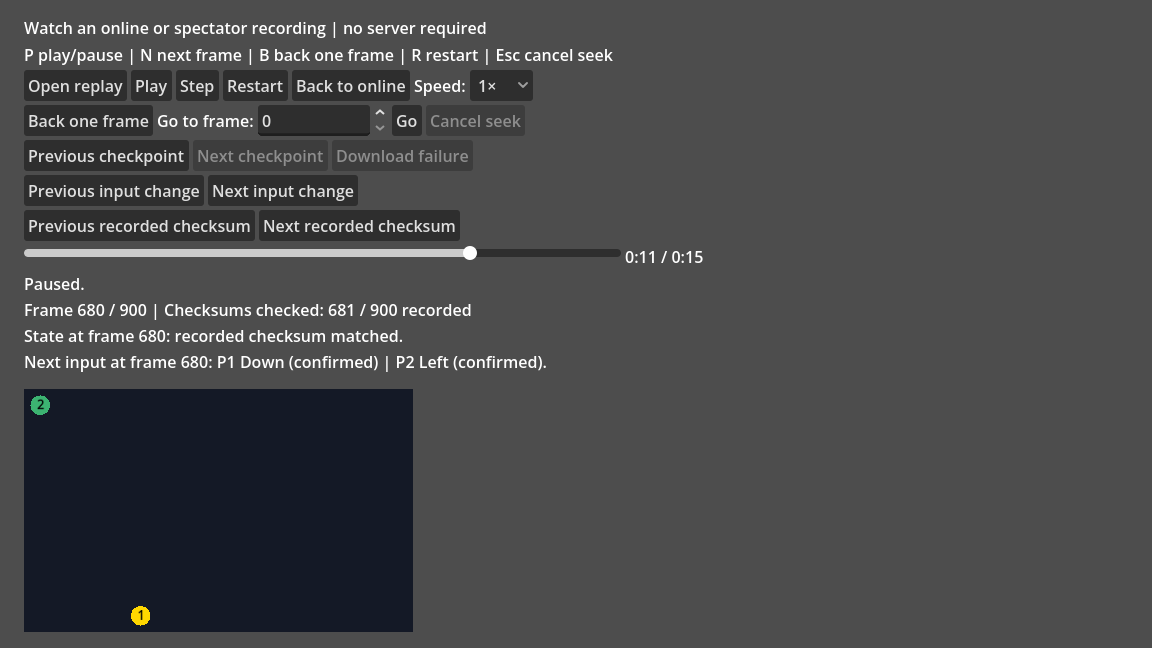
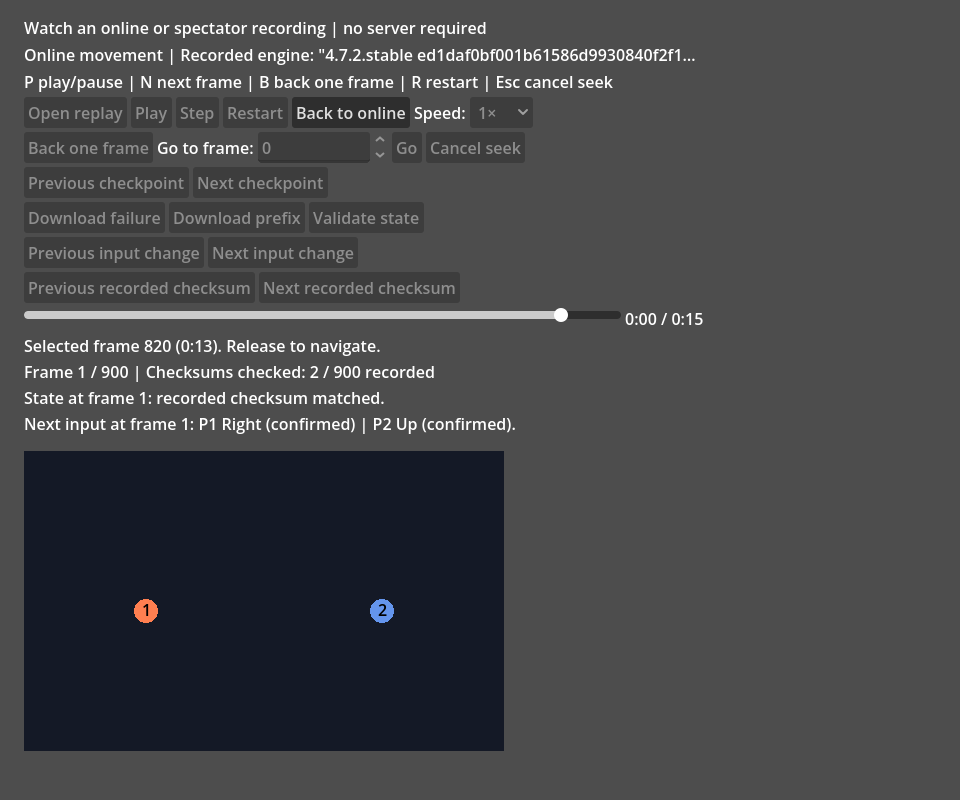
Fix restarts and improve playback controls (#303)
DISCLOSURE: LLM-GENERATED TEXT

**Why:** Reusing the integration loop retains stale game state, and
playback controls need clearer pointer feedback.

**What:**

- Restart the complete integration match and retire old handles.
- Preview the selected replay frame and time while dragging.
- Save viewed spectator recordings through a guarded pointer button.
- Document controls with updated screenshots and deterministic
regression coverage.

Replay screenshots:
[before](https://github.com/Ambiguous-Interactive/fortress-rollback-godot/blob/9d48176332ed5ca1ad98889f951836273b58a689/docs/images/replay-timeline.png),
[after](https://github.com/Ambiguous-Interactive/fortress-rollback-godot/blob/09826aa196b83c9c676fd9c10b261d634340f255/docs/images/replay-timeline.png).

Spectator screenshots:
[before](https://github.com/Ambiguous-Interactive/fortress-rollback-godot/blob/9d48176332ed5ca1ad98889f951836273b58a689/docs/images/spectator-example.png),
[after](https://github.com/Ambiguous-Interactive/fortress-rollback-godot/blob/09826aa196b83c9c676fd9c10b261d634340f255/docs/images/spectator-save-controls.png).

Advances #40, #45 and #47. Their broader acceptance remains open.

Changed region(s): [[0.0, 0.0309, 0.7188, 0.9877], [0.125, 0.7407, 0.1875, 0.7716]]

diff --git a/scripts/reference/ownership_probes.py b/scripts/reference/ownership_probes.py
@@ -179,7 +179,7 @@ EXPECTED['res://tests/unit/test_integration_controls.gd'] = {'live_controls', 'r
 EXPECTED['res://tests/unit/test_integration_effect_reentry.gd'] = {'effect_reentry', 'effect_cancellation'}
 EXPECTED['res://tests/unit/test_integration_demo.gd'] = {'delayed_matches', 'reset_and_validation', 'replays_corrected_match', 'restart_lifetimes'}
 EXPECTED['res://tests/unit/test_replay_prefix.gd'] = {'captured_prefix_evidence', 'prefix_evidence_boundaries', 'incomplete_prefix_digests', 'incomplete_prefix_storage'}
-EXPECTED['res://tests/unit/test_spectator_demo_recording.gd'] = {'prefix_capture', 'clean_end_capture', 'capture_guards'}
+EXPECTED['res://tests/unit/test_spectator_demo_recording.gd'] = {'prefix_capture', 'clean_end_capture', 'capture_guards', 'save_pointer_control'}
 for _suite in ['host', 'relay']:
     EXPECTED[f'res://tests/unit/test_signalfish_spectator_{_suite}.gd'].add('sdk_numbers')
 EXPECTED['res://tests/unit/test_signalfish_fallback_failure.gd'] = {
@@ -199,6 +199,7 @@ EXPECTED['res://tests/unit/test_replay_viewer_prefix.gd'] = {'selected_prefix', 
 EXPECTED['res://tests/unit/test_peer_example_ownership.gd'] = {
     'replacement', 'rejected_configuration', 'completion_controls', 'manual_controls', 'callback_controls', 'input_preflight'}
 EXPECTED['res://tests/unit/test_example_scene_exit.gd'] = {'retained_handles', 'active_batches', 'active_callbacks', 'expert_gap_recovery'}
+EXPECTED['res://tests/unit/test_integration_restart.gd'] = {'restart_lifetime', 'restart_rejections', 'restart_callbacks'}
 EXPECTED_COUNT = sum(len(cases) for cases in EXPECTED.values())
 FILES = [
     'tests/runner/scenario_runner.gd', 'tests/runner/test_context.gd', 'tests/runner/run_tests.gd',
@@ -263,7 +264,7 @@ FILES += ['tests/unit/test_driver_lifecycle_parity.gd']
 FILES += ['tests/unit/test_driver_drop_parity.gd']
 FILES += ['tests/unit/test_peer_notifications.gd']
 FILES += ['tests/unit/test_replay_configuration.gd']
-FILES += ['tests/unit/test_integration_controls.gd']
+FILES += ['tests/unit/test_integration_controls.gd', 'tests/unit/test_integration_restart.gd']
 FILES += ['tests/unit/test_peer_expert.gd', 'tests/unit/test_snapshot_history.gd', 'tests/unit/test_integration_demo.gd', 'tests/unit/test_integration_effect_reentry.gd']
 FILES += ['addons/fortress_rollback/transport/signalfish_adapter.gd', 'addons/fortress_rollback/transport/signalfish_membership.gd',
           'addons/fortress_rollback/transport/signalfish_relay.gd', 'addons/fortress_rollback/transport/signalfish_relay_envelope.gd',
@@ -323,6 +324,7 @@ const ReplayInputNavigation = preload("res://tests/unit/test_replay_input_naviga
 const ReplayFinalCoverage = preload("res://tests/unit/test_replay_final_coverage.gd")
 const IntegrationControls = preload("res://tests/unit/test_integration_controls.gd")
 const IntegrationDemo = preload("res://tests/unit/test_integration_demo.gd")
+const IntegrationRestart = preload("res://tests/unit/test_integration_restart.gd")
 const IntegrationEffectReentry = preload("res://tests/unit/test_integration_effect_reentry.gd")
 const SnapshotHistory = preload("res://tests/unit/test_snapshot_history.gd")
 const ReplayConfiguration = preload("res://tests/unit/test_replay_configuration.gd")
@@ -377,7 +379,7 @@ func _run_suites() -> void:
 \t\tReplayTerminalRecovery, ReplayTerminal, ReplayCheckpoints, SpectatorStream, CallbackSignatures, ScriptViewTypes,
 \t\tReplayDiagnostics, SpectatorDemo, SpectatorDemoRecording, SpectatorPolicy, SpectatorPublisher, ReplaySpeed, ReplayInputNavigation, ReplayViewerLifetime, ReplayViewerPrefix,
 		DriverRecovery, PeerRecovery, PeerReplayCapture, PeerNotifications, ReplayFinalCoverage, ReplayCoverage, SpectatorModel, FrameInputs, InputQueue,
-		ReplayExpert, ReplayDrop, ReplayConfiguration, PeerExpert, SnapshotHistory, IntegrationDemo, IntegrationEffectReentry, IntegrationControls, ReplayPrefix,
+		ReplayExpert, ReplayDrop, ReplayConfiguration, PeerExpert, SnapshotHistory, IntegrationDemo, IntegrationRestart, IntegrationEffectReentry, IntegrationControls, ReplayPrefix,
 		PeerChecksumRepair, SpectatorStatus, DropInventory, DropHistory, DropMultiSlot,
 		HistoryBackfill, DriverParity, DriverPeerParity, DriverDropParity, DropBackfill, DropCapacity, DropEviction, DropHistoryPressure, DropDonorFairness,
 		DropPlanFairness, DropReadyPressure, DropRemoteDonorPressure, DropLateAck, DropCommit,

diff --git a/.llm/retrospectives/2026-11-02-client-restarts-and-selection.md b/.llm/retrospectives/2026-11-02-client-restarts-and-selection.md
@@ -1,0 +1,40 @@
+# Retrospective: complete restarts and visible selection
+
+## Work under review
+
+Advance client integration (#40), replay inspection (#45) and local spectator
+controls (#47). Replace the integration loop's partial restart, preview timeline
+selection and expose the existing viewed-replay export through a pointer button.
+
+## Findings and actions
+
+| Finding | Evidence | Action |
+| --- | --- | --- |
+| Reconfiguring only the session leaves an advanced game, held sample and played-effect frontier attached to frame zero. | The original `examples/integration/loop.gd::start` reused these owners; the restart probe subsequently returned `CALLBACK_FAILED`. | Stage a complete replacement, retire the old session and support explicit fresh custom callbacks. |
+| A slider can move without telling users which exact frame they selected. | The original `examples/online/replay_scene.gd::_timeline_changed` skipped refresh during dragging. | Show prospective frame/time separately from the displayed state and checksum observations. |
+| Testing the real default export path can overwrite another process's recording. | The first spectator pointer fixture used the fixed `user://fortress-spectator.frrp` path. | Capture the existing export override in the unit test; run actual file receipt in a separate process with an owned data directory. |
+| A repeated successful save can pass on stale bytes and a prior notice. | The original `_save_from_button` accepted an isolated mutant that refused stopped-viewer exports. | Require exactly one new export invocation per accepted press; the same mutant now fails that assertion. |
+| Concurrent edits must disqualify a source-bound aggregate even when its selected assertions pass. | Focused replay/spectator records passed while native launchers reported `source_changed`. | Keep those records as diagnostic evidence and run final qualification only after the shared source freeze. |
+
+## Verification and routing
+
+Each change has a failing baseline control and passing focused cases on Godot
+4.3 and 4.7.2. Live viewport input exercises timeline drag/release and spectator
+saving; the native saved file reopens with its original canonical state.
+Final frozen native and CI evidence belongs in the session log and linked issues.
+
+Existing [rollback guidance](../skills/rollback-fundamentals/SKILL.md) already
+requires staged replacement and retirement of prior owners. Existing
+[infrastructure guidance](../skills/testing/references/infrastructure.md) already
+covers owned native file paths, live GUI input and coordinated source freezing.
+Extended the existing browser/UI observation guidance with per-action freshness,
+alongside its prior-import readiness rule. No separate skill or knowledge entry is needed.
+
+## Prune ledger and outcome
+
+Removed the shared-file unit fixture before delivery. Considered the existing
+playback-controls retrospective and source-image guidance; their contracts remain
+valid and neither is superseded. The three parent issues retain their complete
+upstream, platform and release acceptance requirements.
+
+Outcome: `findings-acted`.

diff --git a/PLAN.md b/PLAN.md
@@ -109,13 +109,15 @@ Internal readiness checks avoid owned sample copies; public retained-input reads
 They can also export owned finalized input rows for confirmed effects and spectator publication without recording.
 Replay failure evidence identifies the first failed game request and comparison domain.
 Normal replay inspection also exposes recorded provenance separately from checksum coverage.
+Timeline dragging previews its selected frame and time while state and checksum observations continue to name the displayed frame.
 The online replay viewer can inspect preceding or following control/status changes through bounded verified navigation.
 It can export original input history before the displayed frame, retaining existing checksum evidence without generating new validation.
 It also discovers preceding/following recorded checksum boundaries, including final states, independently of visited checkpoint caches.
 Spectator playback observations distinguish contiguous input waits, deliberate delay, final tails and committed termination.
 The local spectator example adjusts its viewing delay without rewinding playback or changing its pause and catch-up policy.
-Pointer controls share its keyboard pause, single-frame, bounded one-time catch-up, clean host ending and fresh match restart actions.
+Pointer controls share its keyboard pause, single-frame, bounded one-time catch-up, clean host ending, fresh match restart and viewed-replay save actions.
 Integration controllers validate ownership, retained input and time before staging input or advancing clocks, and pause live service while replay is open.
+Restarting the reusable integration loop stages a complete fresh game, session, driver and effects ledger before retiring its prior match.
 The local peer example prepares replacement sessions before retiring the old match and preserves active shared game operations during reset.
 Online room and match service also preserve callback, notification and manual ownership before committing clocks or replay finishing.
 Online setup guards SDK callbacks and fences cancellation before accepting a new match or transport.

diff --git a/docs/online-example.md b/docs/online-example.md
@@ -230,7 +230,8 @@ When a recording includes a validated final-state checksum, its ending is also
 retained within the checkpoint budget. **Next checkpoint** can return to that
 ending after backward inspection, even between five-second boundaries.
 These controls become available as playback builds its cache. They finish paused and cannot skip a playback failure.
-Drag the timeline to choose a recorded moment, then release to navigate and pause.
+Drag the timeline to preview an exact frame and recorded time, then release to navigate and pause.
+The selected destination appears above the current playback status; the game stays at its actual frame until release.
 Press **Download prefix** to save original inputs before the displayed frame as `fortress-replay-prefix-SOURCE-FRAME.frrp`.
 The source fingerprint distinguishes prefixes from different recordings.
 Native runs save under `user://`; browsers download the file. Reopening it reproduces that recorded prefix.
@@ -251,7 +252,7 @@ Enter a frame number and press **Go** for an exact forward or backward destinati
 uses bounded in-memory checkpoints from previously validated playback, then replays the
 remaining inputs and checksums. A first visit still validates the full preceding history. Each UI tick processes at most 120 frames, and **Cancel seek**
 pauses at the last validated boundary. Navigation finishes paused at the requested frame.
-![Replay timeline and recorded time](images/replay-timeline.png)
+![Replay timeline selection previews a destination while the game remains at its displayed frame](images/replay-timeline.png)
 
 Pausing at a seek destination validates that state through the same bounded snapshot callback as playback.
 The recording row identifies the game and recorded engine. Hover over it for full engine, addon,

diff --git a/docs/integration.md b/docs/integration.md
@@ -33,6 +33,10 @@ The integration controller and loop reject buttons outside 0–7 with `INVALID_C
 Rejected buttons preserve queued deliveries, sampled input, accepted time and the running match.
 Stopping replay inside a callback keeps that ownership until the callback returns; live play can then resume.
 The scene retries temporary `BUSY` ticks after ownership releases, without restarting the match.
+Calling `loop.start()` again starts a fresh game, input sample and effects ledger, and retires the previous session and driver.
+The first call keeps a game or ledger assigned before startup. For later custom matches, pass fresh instances to
+`loop.start(custom_game, custom_effects)`; the game must be at frame zero and the ledger must have no played effects.
+Invalid settings or callbacks preserve the current match; active callbacks, notifications and expert batches return `BUSY`.
 The example also holds the shared session guard while calling confirmed `Effects.play()` hooks.
 Nested service, restart, replay and expert mutations return `BUSY` until those hooks return.
 An effect hook can terminate the match; the bounded batch of already-confirmed effects finishes,

diff --git a/CHANGELOG.md b/CHANGELOG.md
@@ -4,6 +4,10 @@
 
 ### Added
 
+- Add a Save viewed replay button to the local spectator, including retained recordings after viewing stops.
+
+- Add an exact frame and time preview while dragging the replay timeline. The displayed game and checksum status stay at their current frame.
+
 - Add End host and Restart match buttons to the local spectator, including recovery after host loss or completed playback.
 
 - Add a replay Validate state control to check a paused boundary without advancing input. Missing recorded checksums remain explicitly unverified.
@@ -254,6 +258,8 @@
 - Add a bounded raw input queue with owned bytes, frame delay, and repeat-last prediction.
 
 ### Fixed
+
+- Fix restarting the reusable integration loop to replace the game, session, driver, retained input and effect ledger together. Rejected replacements preserve the running match.
 
 - Fix replay controls appearing available while game callbacks or manual replay requests hold playback. Controls become available after completion.
 

diff --git a/docs/spectators.md b/docs/spectators.md
@@ -82,11 +82,16 @@ including initial prediction and viewer backpressure.
 
 ## Save the viewed history
 
-Press V to save `fortress-spectator.frrp`: browsers download the file; native builds
+Click **Save viewed replay** or press V to save `fortress-spectator.frrp`: browsers download the file; native builds
 save it under `user://` and show the full path. The example records the first ten
 minutes of viewed input, including finalized player statuses. It does not record
 host frames the viewer has not played. Saving leaves host gameplay and viewing
 controls unchanged.
+
+Saving is unavailable during active game work. A stopped viewer can still save
+its retained recording; a failed viewer with no recorded input or state cannot.
+
+![Pointer control saves the viewed recording](images/spectator-save-controls.png)
 
 The label shows recorded viewed frames and the recording limit. It warns during
 the last 600 available frames. At the limit, save before viewing more frames to

diff --git a/.llm/skills/testing/references/browser-integration.md b/.llm/skills/testing/references/browser-integration.md
@@ -17,6 +17,8 @@ Before attributing a missed canvas click to browser activation, compare a bounde
 pointer press/release across render turns with a trusted DOM control using the same importer.
 Return command observations synchronously and check them in the same page evaluation;
 a repeated case label can satisfy a readiness wait using stale state from a prior import.
+Require a fresh observed effect for each accepted repeated action. Retained export bytes or an earlier success notice
+cannot prove that a later Save handler ran; check the export invocation or received-download count too.
 Validate displayed state boundaries through every action that pauses playback,
 including Step and Pause, not only seeking and cancellation. A departing-boundary
 check can leave a corrupt destination displayed until playback resumes.
